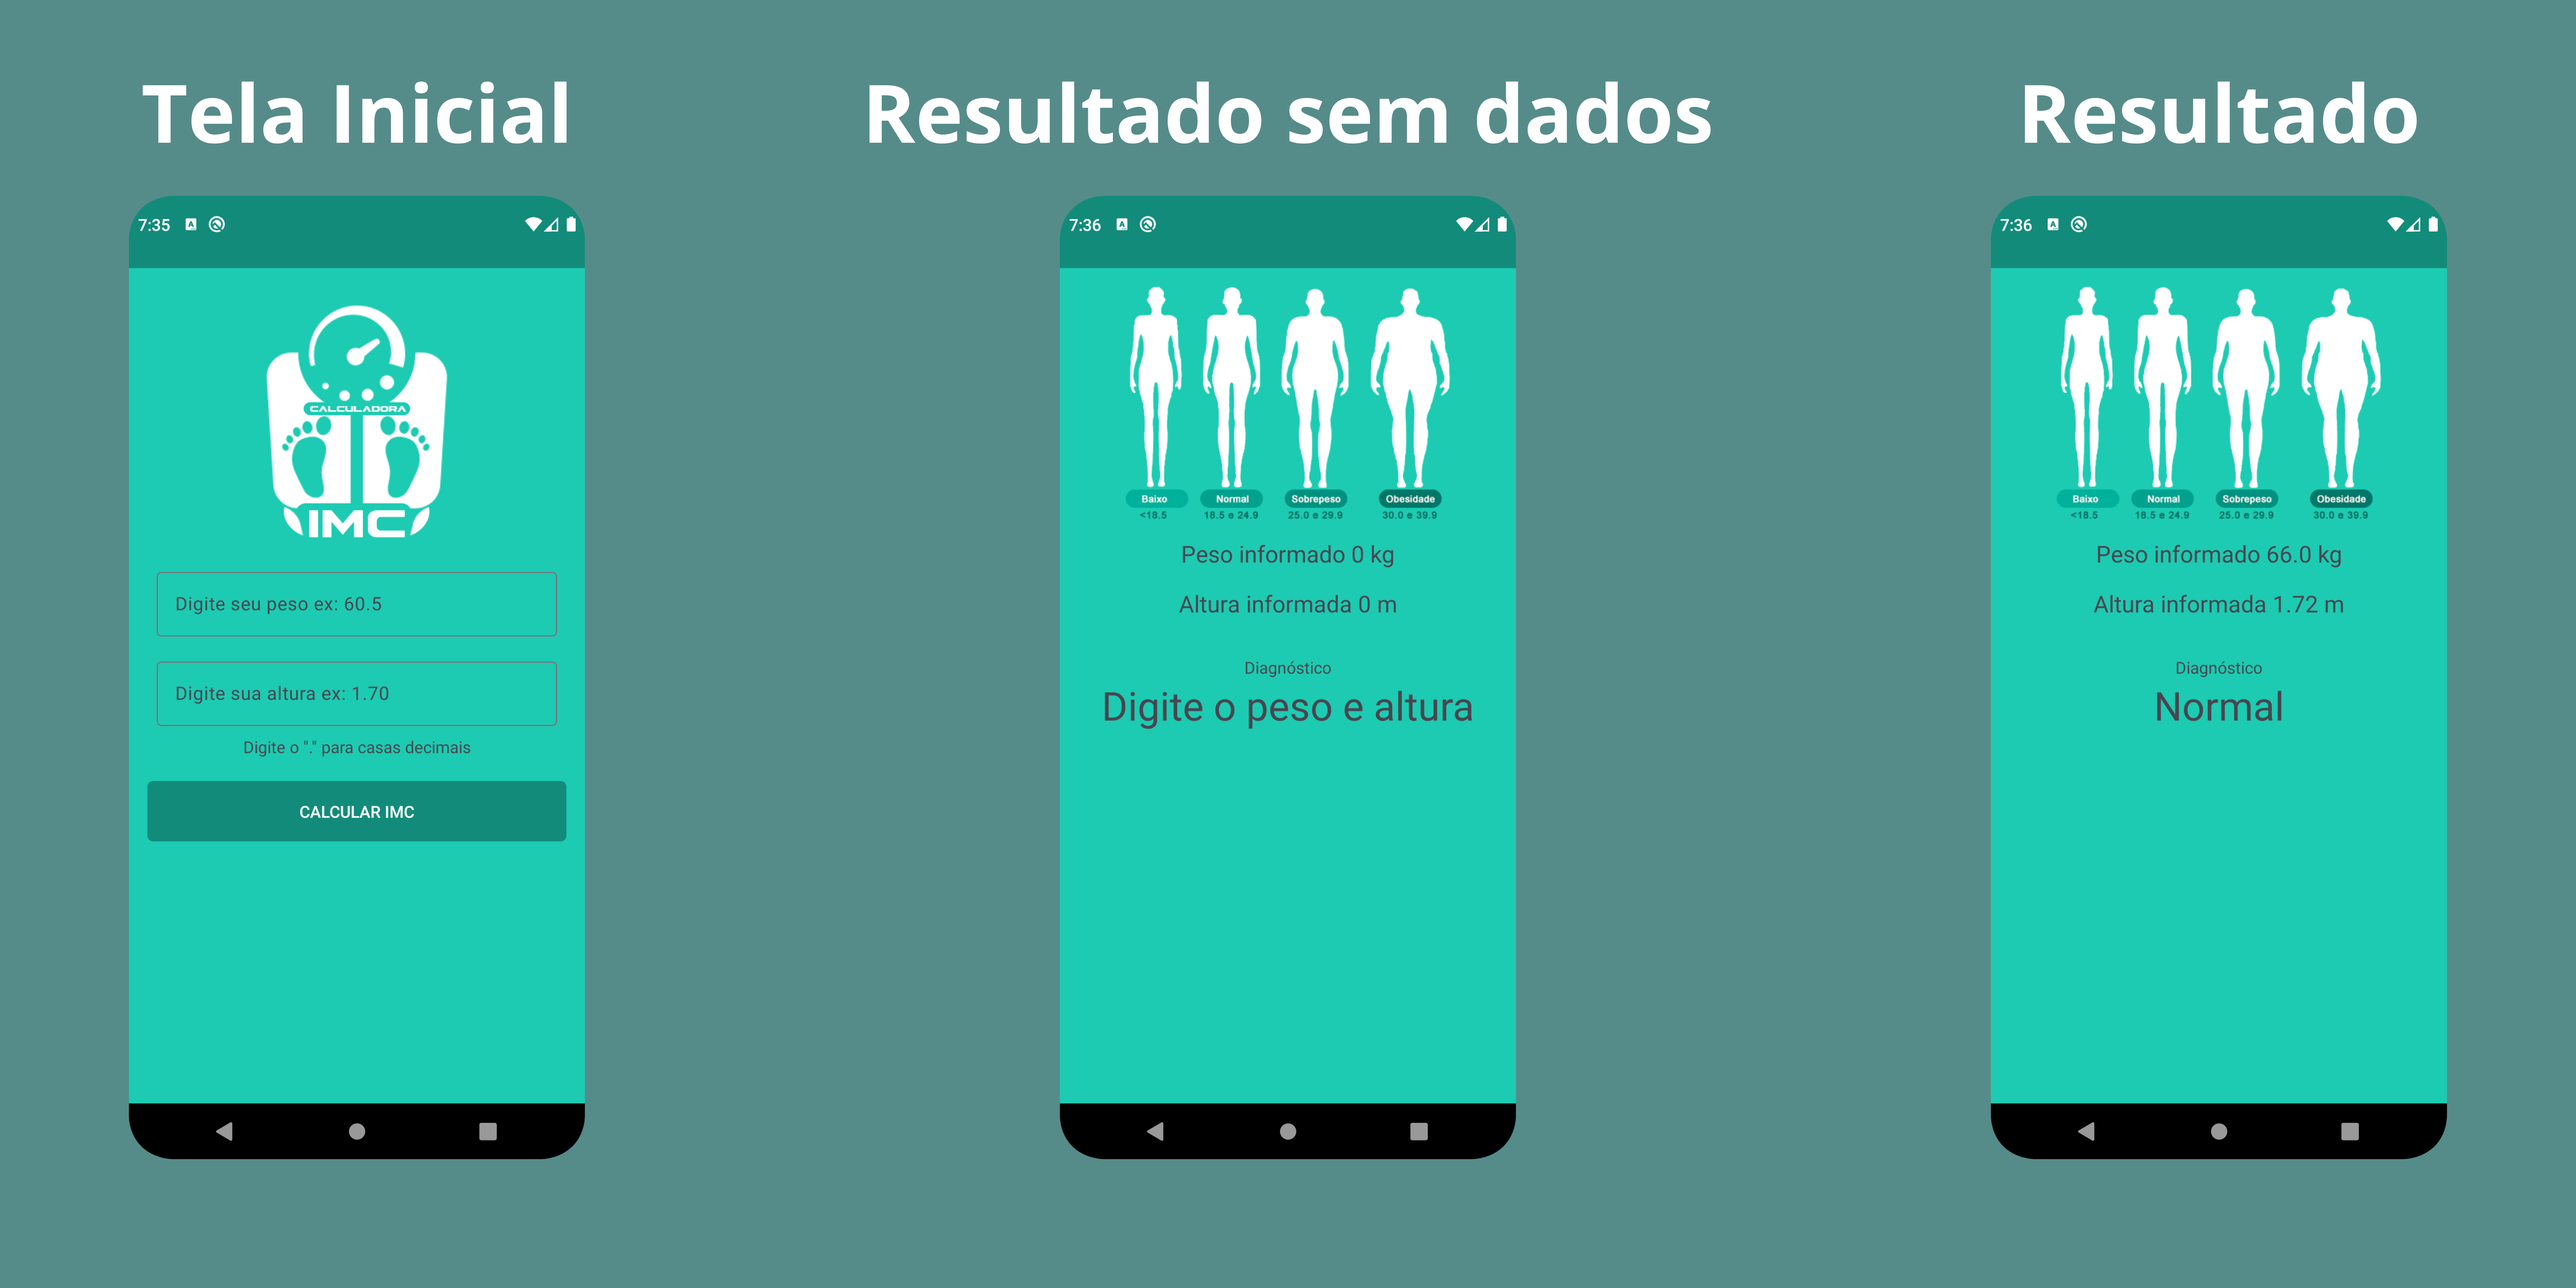
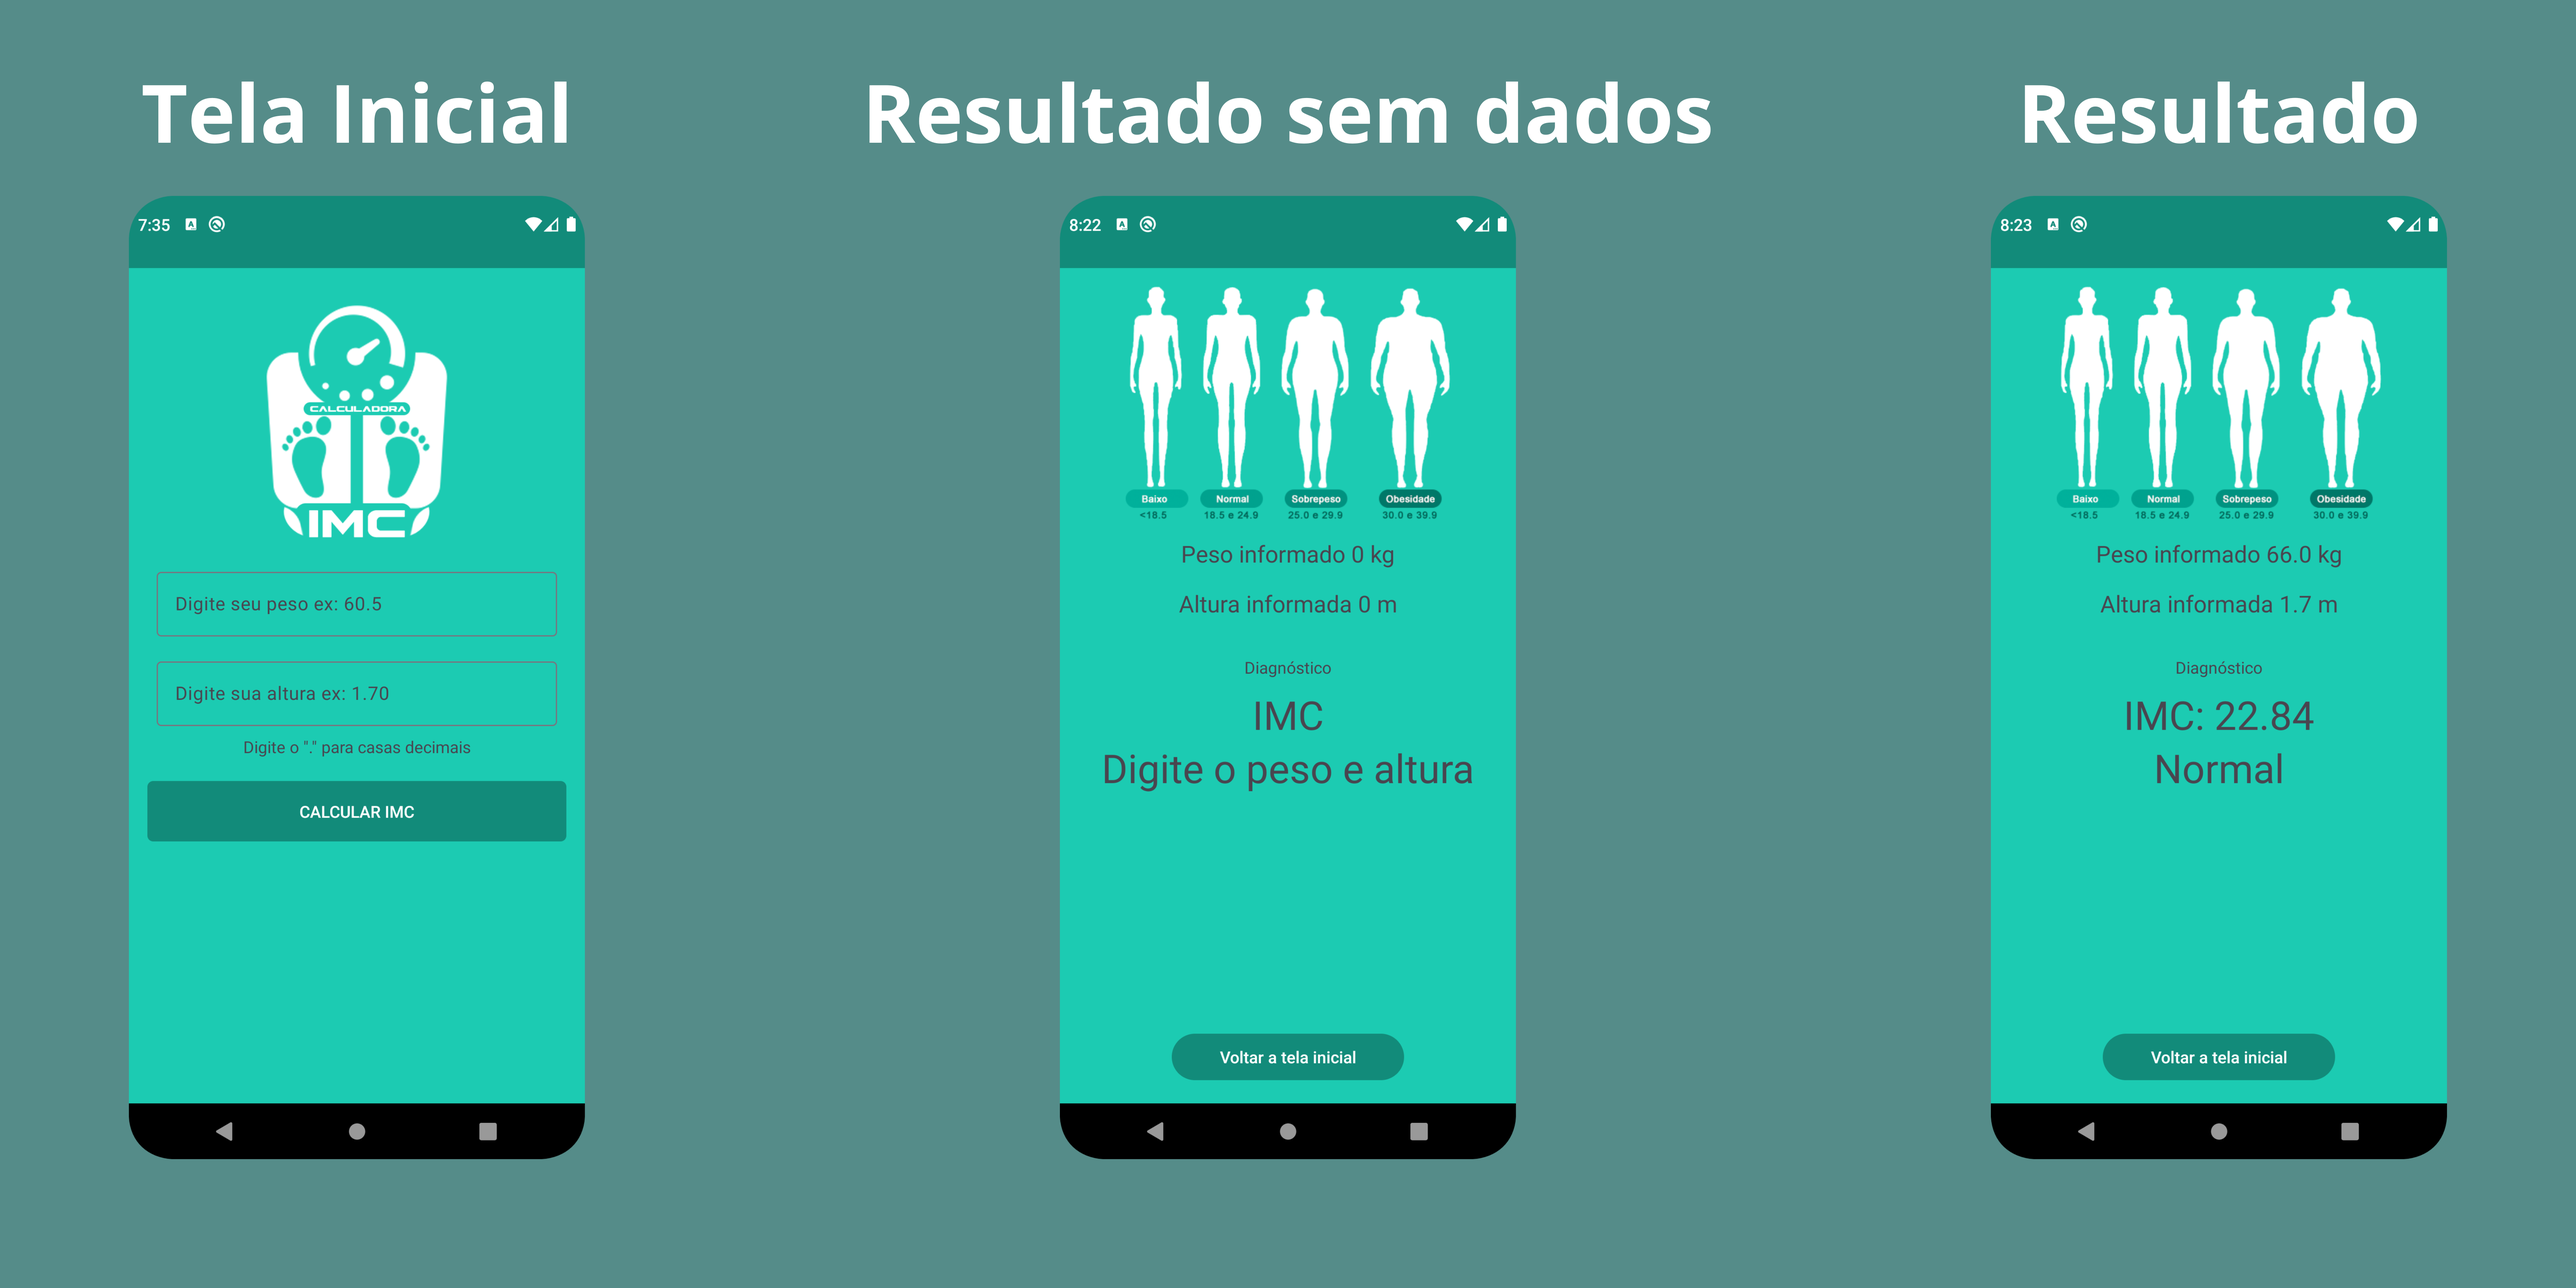
improvements, add button to back main page and result page show IMC value

diff --git a/app/src/main/java/com/curso/aulacalculadorimc/ResultadoActivity.kt b/app/src/main/java/com/curso/aulacalculadorimc/ResultadoActivity.kt
@@ -2,13 +2,17 @@ package com.curso.aulacalculadorimc
 
 import androidx.appcompat.app.AppCompatActivity
 import android.os.Bundle
+import android.widget.Button
 import android.widget.TextView
+import java.text.DecimalFormat
 
 class ResultadoActivity : AppCompatActivity() {
 
     private lateinit var textPeso: TextView
     private lateinit var textAltura: TextView
     private lateinit var textResultado: TextView
+    private lateinit var textResultadoImc: TextView
+    private lateinit var btnVoltar: Button
 
     override fun onCreate(savedInstanceState: Bundle?) {
         super.onCreate(savedInstanceState)
@@ -17,8 +21,14 @@ class ResultadoActivity : AppCompatActivity() {
         textPeso = findViewById(R.id.text_peso)
         textAltura = findViewById(R.id.text_altura)
         textResultado = findViewById(R.id.text_resultado)
+        textResultadoImc = findViewById(R.id.text_resultado_imc)
+        btnVoltar = findViewById(R.id.btn_voltar)
+        btnVoltar.setOnClickListener {
+            finish()
+        }
 
         val bundle = intent.extras
+
         if (bundle != null) {
             val peso = bundle.getDouble("peso")
             val altura = bundle.getDouble("altura")
@@ -35,7 +45,11 @@ class ResultadoActivity : AppCompatActivity() {
                 else -> "Obeso"
             }
 
-            textResultado.text = resultado
+            // Formatando para 2 casas decimais
+            val formato = DecimalFormat("#.00")
+
+            textResultadoImc.text = "IMC: ${formato.format(imc)}"
+            textResultado.text = "$resultado"
         }
     }
 }

diff --git a/README.md b/README.md
@@ -2,6 +2,10 @@
 
 Aplicativo desenvolvido no Android Studio utilizando a linguagem Kotlin com o objetivo de realizar o cálculo do IMC (Índice de massa corporal) e informar se você está com um peso ideal.
 
+Branch Improvements com algumas melhorias feitas por mim, que foram:
+- Botão para voltar a tela inicial
+- Na tela de resultado é mostrado também o valor do seu IMC
+
 Feito durante o curso de [Desenvolvimento Android Completo 2023 - Kotlin & Java](https://www.udemy.com/course/desenvolvimento-android-completo/).
 
 ## Screenshot
